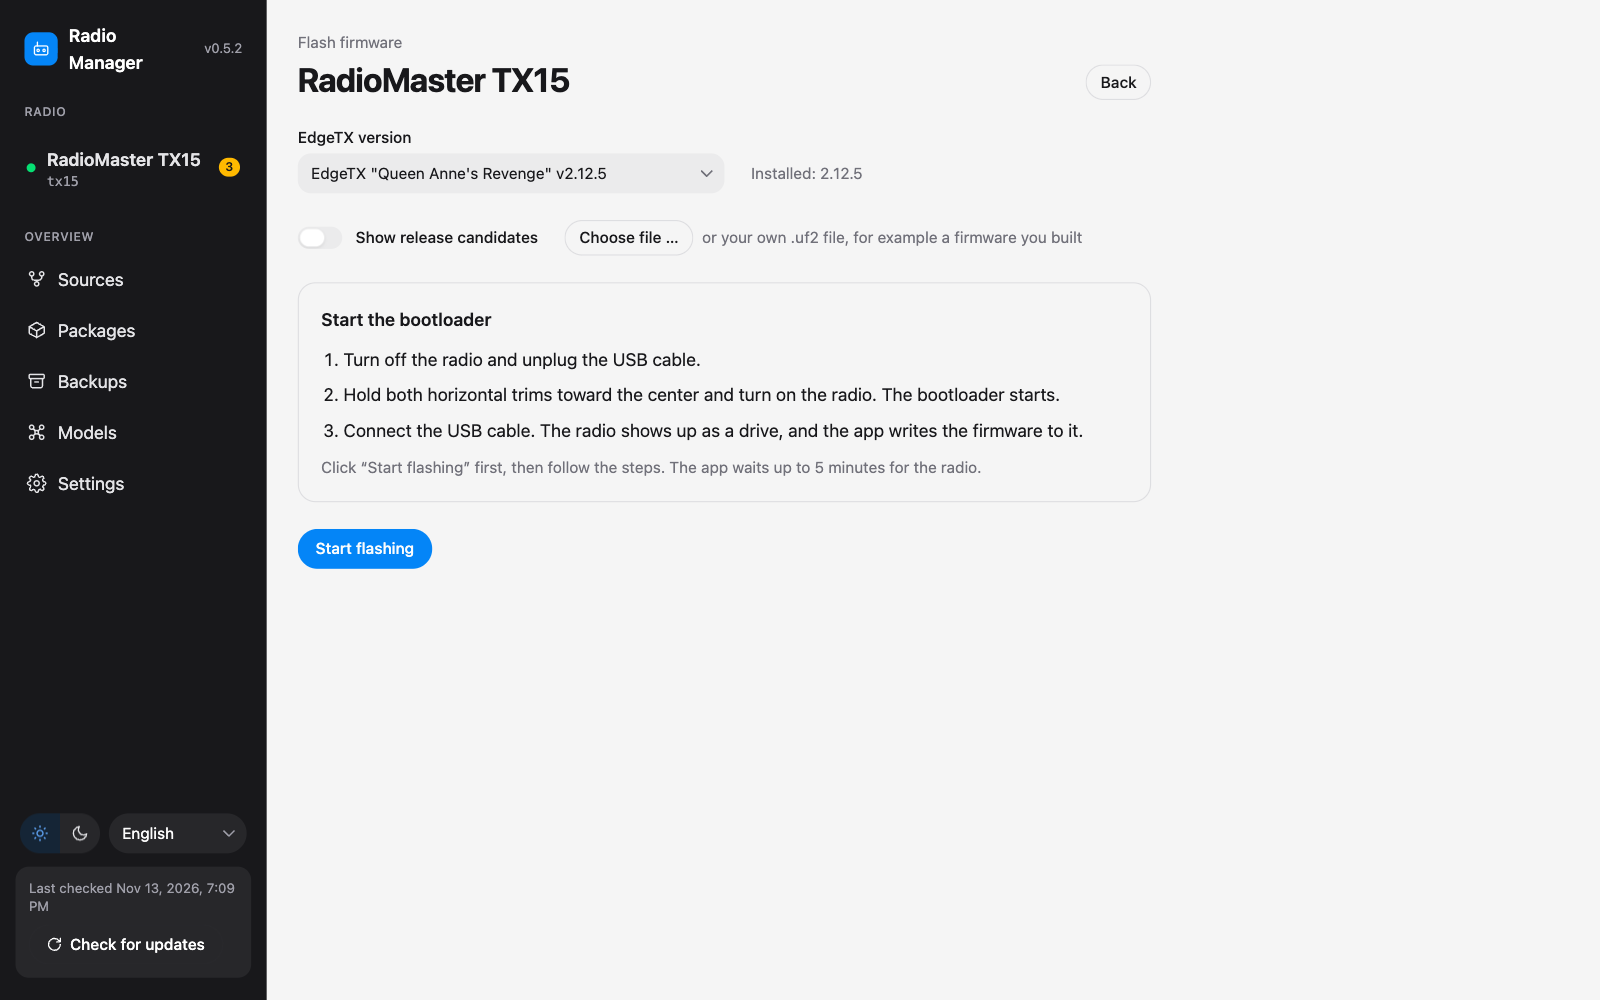
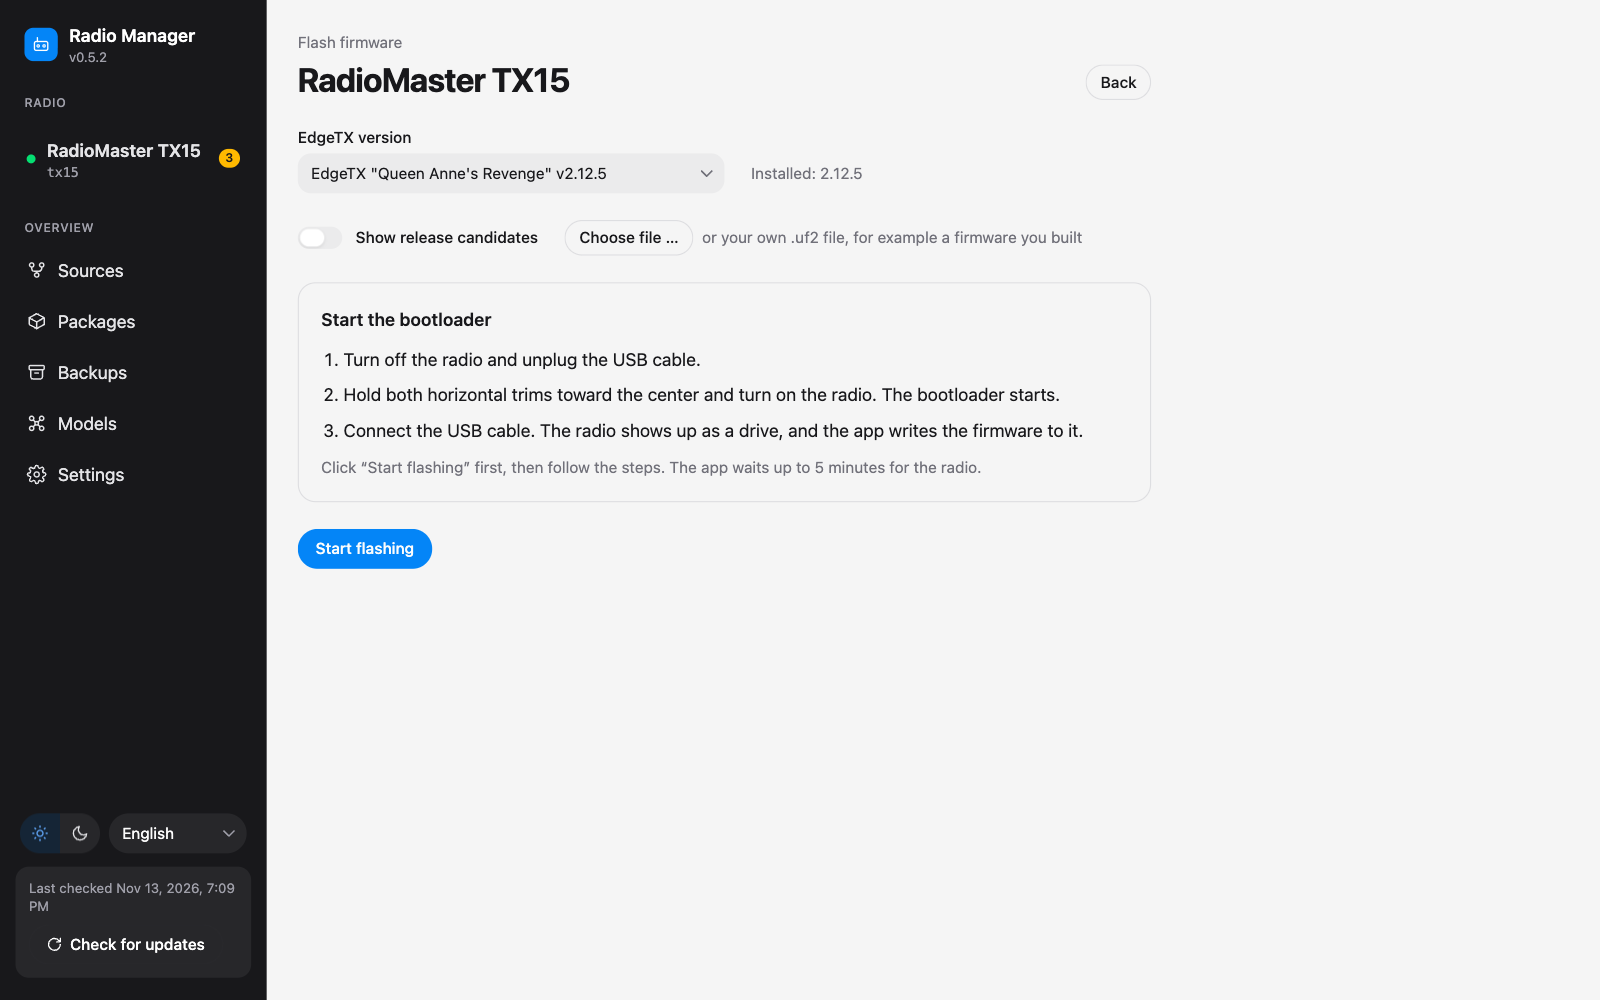
Show the version below the app name in the sidebar
The name no longer wraps onto two lines. Screenshots updated.

Published-From: 6d24b4219d916293b54d7b979c8bdef6482efe7b

diff --git a/src/ui/components/Sidebar.tsx b/src/ui/components/Sidebar.tsx
@@ -51,8 +51,10 @@ export function Sidebar(props: {
         <span className="flex size-[30px] items-center justify-center rounded-lg bg-accent text-white">
           <RadioIcon size={16} />
         </span>
-        <span className="font-semibold text-white">Radio Manager</span>
-        <span className="text-xs text-zinc-400">v{__APP_VERSION__}</span>
+        <span className="flex flex-col">
+          <span className="font-semibold whitespace-nowrap text-white">Radio Manager</span>
+          <span className="text-xs text-zinc-400">v{__APP_VERSION__}</span>
+        </span>
       </div>
 
       {appUpdate && (
